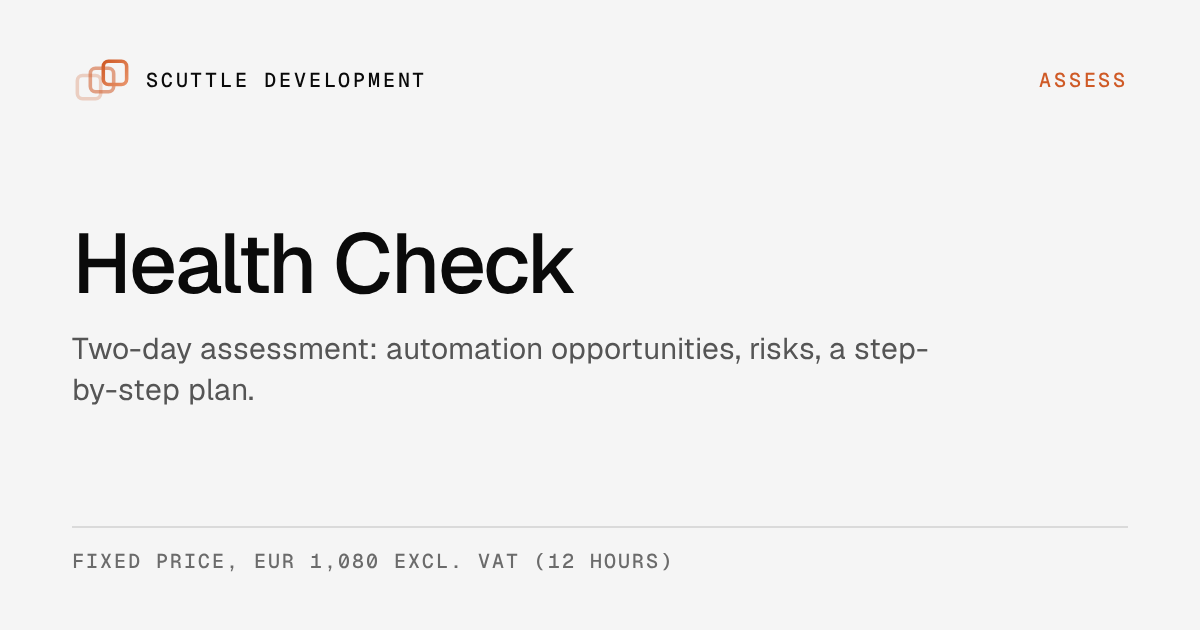
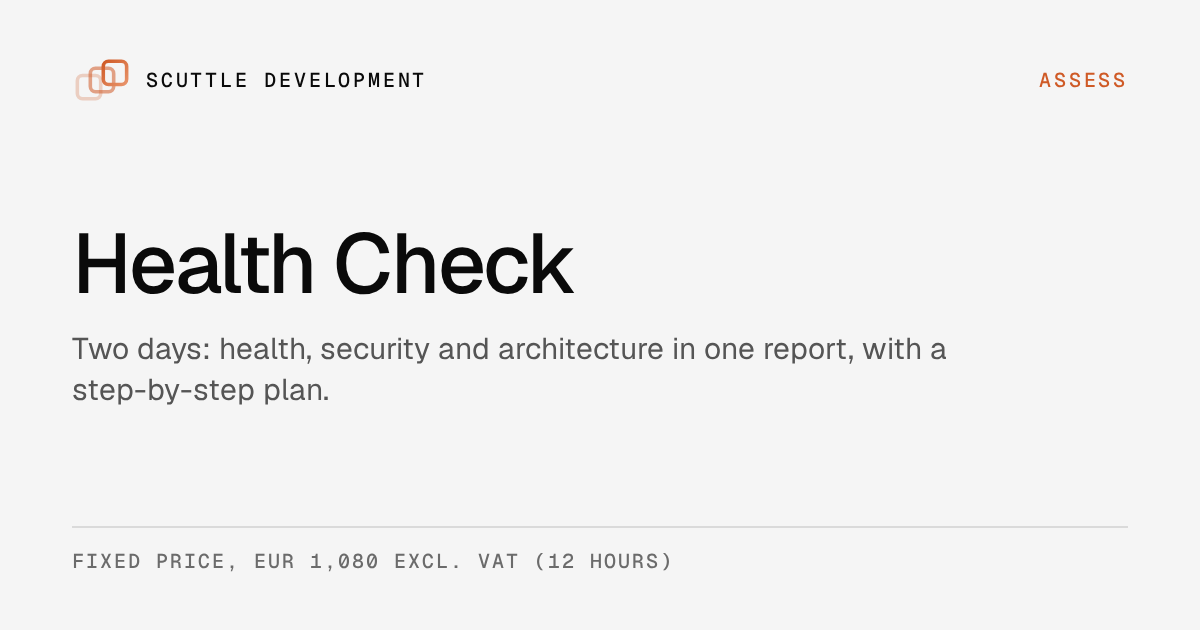
Services: five renames and a step per service for the home page loop
Stas (2026-10-31, proposal 14): the services are shown as the loop an engagement runs
through, Research, Plan, Build, Review, Deploy, with the ongoing work as the hub. This
first release renames what sounded alike or too narrow and adds the loop data; the
illustration itself comes in the next release. Renamed: AI Integration to AI Agents and
Skills, Integrations to System Integration, Android App to Mobile App (Android now, iOS on
request), Security Assessment to Security Test, Architecture Review to Architecture Plan.
Slugs and addresses do not change; the Health Check keeps its name and its one-liner now
says what it covers (health, security and architecture in one report). Every product
carries a step (Build entries also a sub group); STEPS, SUBS, EXTRA (nine entries without a
page yet, they open the contact page) and loop() feed the next release. Search titles,
related links, the demo panel texts and the six social cards with a changed name follow.
The menu keeps its three groups.

Changed region(s): [[0.0925, 0.5429, 0.8017, 0.573], [0.0617, 0.6032, 0.2775, 0.6333]]

diff --git a/public/site.js b/public/site.js
@@ -190,7 +190,7 @@
         ['45 seconds instead of an hour', 'Release notes that used to be written on Friday afternoon, done before the deploy finishes.', 'ai-integration', 'l', 'SKILL'],
         ['Your procedure, written down', 'A skill is the checklist the agent must follow: what to read, how to write, what never to include.', 'ai-integration', 'l', 'REPEAT'],
         ['A person still publishes', 'The agent drafts; the release button stays human.', 'ai-integration', 'l', 'HUMAN'],
-        ['Sold as', 'AI Integration: custom skills for the chores your team repeats', 'ai-integration', 'l', '→']
+        ['Sold as', 'AI Agents and Skills: custom skills for the chores your team repeats', 'ai-integration', 'l', '→']
       ]), { title: 'Automation run · release-notes skill (Claude Code)', done: 'done · 45 s' }),
       'mcp-gateway': Object.assign(run([
         ['10:42:12', 'assistant → "which orders of customer 4471 are late?"', ''],
@@ -203,7 +203,7 @@
         ['One MCP server in front of the API', 'The assistant gets named tools, not raw database access.', 'ai-integration', 'l', 'LIVE'],
         ['Read-only by default', 'Write tools exist only where a human approves the action.', 'ai-integration', 'l', 'OK'],
         ['Every call audited', 'Who asked what, which tool ran, what came back.', 'integrations', 'l', 'OK'],
-        ['Sold as', 'AI Integration, on top of Integrations when the API is not there yet', 'ai-integration', 'l', '→']
+        ['Sold as', 'AI Agents and Skills, on top of System Integration when the API is not there yet', 'ai-integration', 'l', '→']
       ]), { title: 'Live tool call · mcp-gateway (Model Context Protocol)', done: 'answered · 1.1 s' }),
       'lead-followup': Object.assign(run([
         ['08:30:00', 'crm → 9 leads without a reply after 5 days', ''],
@@ -217,7 +217,7 @@
         ['7 drafts ready at 08:31', 'Each one shown with the thread it answers; approve or edit, then send. About 35 minutes of writing saved a day.', 'ai-integration', 'l', 'AUTO'],
         ['2 for a person', 'They mention a meeting date; a human decides.', 'ai-integration', 'm', 'HUMAN'],
         ['Sending stays human', 'The agent drafts; a person taps send, by design.', 'ai-integration', 'l', 'OK'],
-        ['Sold as', 'AI Integration, connected to your CRM through Integrations', 'ai-integration', 'l', '→']
+        ['Sold as', 'AI Agents and Skills, connected to your CRM through System Integration', 'ai-integration', 'l', '→']
       ]), { title: 'Automation run · lead-followup', done: 'done · 7 drafts' }),
       'ticket-triage': Object.assign(run([
         ['07:00:00', 'helpdesk → 23 new tickets overnight', ''],
@@ -231,7 +231,7 @@
         ['14 answered before 07:02', 'From the product manual, with the source paragraph quoted; a person sees them first. About 48 minutes a day.', 'ai-integration', 'l', 'AUTO'],
         ['6 bugs prepared', 'Steps, logs and environment attached to each ticket.', 'ai-integration', 'l', 'AUTO'],
         ['1 P1 paged', 'Payment page down; found within 90 seconds of the ticket.', 'maintenance-retainer', 'h', 'P1'],
-        ['Sold as', 'AI Integration, with the Maintenance Retainer watching the P1s', 'ai-integration', 'l', '→']
+        ['Sold as', 'AI Agents and Skills, with the Maintenance Retainer watching the P1s', 'ai-integration', 'l', '→']
       ]), { title: 'Automation run · ticket-triage', done: 'done · 23 triaged' }),
 
       'health-check': { kind: 'report', title: 'Report · Health Check', done: '12 pages · 2 shown', pages: [
@@ -259,7 +259,7 @@
         cols: [['Situation', '<p>A software product with a mature REST API. Customers started asking whether they could use an AI assistant on their own data. The team did not want a chatbot bolted on, and did not want the model anywhere near the database.</p>'],
                ['What I built', '<ul><li>An MCP server (Model Context Protocol, the open standard assistants use to call tools) in front of the existing API</li><li>Named, read-only tools with the user\'s own permissions; no raw queries</li><li>Audit log of every call: who, which tool, what came back</li><li>Write actions only through tools that need a human approval step</li></ul>'],
                ['Result', '<p>Customers connect Claude or another assistant and ask questions in plain language; the product answers from its own API, within the rights that user already had. The API did not change. Client anonymized; the pattern is reusable for any product with an API.</p>']],
-        cta: [['AI Integration', '/products/ai-integration'], ['Integrations', '/products/integrations']] },
+        cta: [['AI Agents and Skills', '/products/ai-integration'], ['System Integration', '/products/integrations']] },
       'case-migration': { kind: 'story', title: 'Case · Migration while in daily use', done: 'anonymized', nums: [['60%', 'lower latency'], ['7.4 → 8.4', 'PHP, back in support'], ['3.4 → 5.9', 'framework, on the way'], ['in use', 'the whole migration']],
         cols: [['Situation', '<p>A hotel operations platform on an old framework and an unsupported PHP. Specialists for the framework were hard to find, and a rewrite was too risky for a system hotels use every day.</p>'],
                ['What I built', '<ul><li>A thin layer that lets old and new code run side by side (Strangler Fig)</li><li>Modules moved one at a time, each release small, each with a rollback</li><li>PHP 7.4 to 8.4 and the framework upgraded on the way, so the runtime stayed supported during the migration</li></ul>'],

diff --git a/src/Catalog.php b/src/Catalog.php
@@ -17,13 +17,13 @@ final class Catalog
 
     /** Search titles: the service and what it is, so the result says more than the name (council round 2, 2026-10-30). */
     public const SEO_TITLES = [
-        'ai-integration' => 'AI Integration: agents, MCP servers and RAG',
-        'integrations' => 'Integrations for bookings, payments, ERP and mail',
+        'ai-integration' => 'AI Agents and Skills: agents, MCP servers and RAG',
+        'integrations' => 'System Integration for bookings, payments, ERP and mail',
         'full-stack-build' => 'Full-stack Build: a web application end to end',
         'modernization' => 'Modernization: PHP, framework and hosting up to date',
-        'android-app' => 'Android App: Kotlin and Jetpack Compose',
-        'security-assessment' => 'Security Assessment: vulnerability scan or pentest',
-        'architecture-review' => 'Architecture Review: options and a recommendation',
+        'android-app' => 'Mobile App: Android in Kotlin and Jetpack Compose',
+        'security-assessment' => 'Security Test: vulnerability scan or pentest',
+        'architecture-review' => 'Architecture Plan: options and a recommendation',
         'hardening' => 'Hardening and Secure Pipeline for your servers',
         'maintenance-retainer' => 'Maintenance Retainer: patches and monitoring monthly',
         'compliance' => 'Compliance Alignment: NIS2, GDPR and DORA',
@@ -33,13 +33,13 @@ final class Catalog
 
     /** @var array<string, string> */
     public const SEO_TITLES_NL = [
-        'ai-integration' => 'AI Integration: agents, MCP-servers en RAG',
-        'integrations' => 'Integrations: systemen die betrouwbaar praten',
+        'ai-integration' => 'AI Agents and Skills: agents, MCP-servers en RAG',
+        'integrations' => 'System Integration: systemen die betrouwbaar praten',
         'full-stack-build' => 'Full-stack Build: een webapplicatie van begin tot eind',
         'modernization' => 'Modernization: PHP, framework en hosting bijgewerkt',
-        'android-app' => 'Android App: Kotlin en Jetpack Compose',
-        'security-assessment' => 'Security Assessment: kwetsbaarhedenscan of pentest',
-        'architecture-review' => 'Architecture Review: opties en een advies',
+        'android-app' => 'Mobile App: Android in Kotlin en Jetpack Compose',
+        'security-assessment' => 'Security Test: kwetsbaarhedenscan of pentest',
+        'architecture-review' => 'Architecture Plan: opties en een advies',
         'hardening' => 'Hardening and Secure Pipeline voor je servers',
         'maintenance-retainer' => 'Maintenance Retainer: patches en monitoring per maand',
         'compliance' => 'Compliance Alignment: NIS2, AVG en DORA',
@@ -69,6 +69,46 @@ final class Catalog
     ];
 
     /**
+     * The development loop on the home page (proposal 14, layout B, Stas 2026-10-31): the
+     * steps an engagement goes through, in order; 'ongoing' is the hub in the middle, not
+     * a step. Each: [label, label NL, line, line NL, verb, verb NL]. The menu keeps GROUPS.
+     *
+     * @var array<string, array{0:string,1:string,2:string,3:string,4:string,5:string}>
+     */
+    public const STEPS = [
+        'research' => ['Research', 'Onderzoeken', 'One look at the whole system before anything is decided.', 'Eén blik op het hele systeem voordat iets wordt besloten.', 'Measure, ask, understand', 'Meten, vragen, begrijpen'],
+        'plan' => ['Plan', 'Plannen', 'Decide what gets built, in which order, and what it costs.', 'Bepalen wat er gebouwd wordt, in welke volgorde en wat het kost.', 'Options, decisions, roadmap', 'Opties, besluiten, routekaart'],
+        'build' => ['Build', 'Bouwen', 'Build what is missing, modernize what runs, connect it, automate it.', 'Bouwen wat ontbreekt, moderniseren wat draait, koppelen, automatiseren.', 'Web, mobile, legacy, integration, AI', 'Web, mobiel, legacy, koppelingen, AI'],
+        'review' => ['Review', 'Toetsen', 'Test what was built before anyone depends on it.', 'Testen wat gebouwd is voordat iemand erop vertrouwt.', 'Pentest, code, tests', 'Pentest, code, tests'],
+        'deploy' => ['Deploy', 'Uitrollen', 'Ship it locked down, backed up and written down. Then look again.', 'Live brengen: dichtgezet, geback-upt en opgeschreven. Dan opnieuw kijken.', 'Pipeline, hardening, handover', 'Pipeline, hardening, overdracht'],
+        'ongoing' => ['Ongoing', 'Doorlopend', 'Not a step: it runs the whole time the system runs.', 'Geen stap: het loopt zolang het systeem draait.', 'Patches, monitoring, evidence', 'Patches, monitoring, bewijs'],
+    ];
+
+    /** The two groups inside Build: key => [label, label NL]. @var array<string, array{0:string,1:string}> */
+    public const SUBS = [
+        'general' => ['General', 'Algemeen'],
+        'ai' => ['AI and automation', 'AI en automatisering'],
+    ];
+
+    /**
+     * Loop entries without a service page yet (they open the contact page): key => [step, sub or null, name, short, short NL].
+     * Names stay English, like every service name on the site.
+     *
+     * @var array<string, array{0:string,1:?string,2:string,3:string,4:string}>
+     */
+    public const EXTRA = [
+        'discovery-session' => ['research', null, 'Discovery Session', 'Half a day with your team: what repeats, what hurts, what to automate first.', 'Een halve dag met je team: wat herhaalt zich, waar wringt het, wat automatiseren we eerst.'],
+        'risk-scan' => ['research', null, 'Dependency and Risk Scan', 'Automated check of versions, end-of-life dates and known vulnerabilities. A one-page result within a day.', 'Geautomatiseerde check van versies, end-of-lifedatums en bekende kwetsbaarheden. Eén pagina resultaat binnen een dag.'],
+        'proof-of-concept' => ['plan', null, 'Proof of Concept', 'The risky part built small first, so the plan rests on something that runs.', 'Het riskante deel eerst klein gebouwd, zodat het plan rust op iets dat draait.'],
+        'specification' => ['plan', null, 'Specification and Estimate', 'A written spec with acceptance criteria, and a fixed quote on it. Spec first, then code.', 'Een geschreven specificatie met acceptatiecriteria, en een vaste offerte daarop. Eerst de spec, dan de code.'],
+        'workflow-automation' => ['build', 'ai', 'Workflow Automation', 'Scheduled jobs, pipelines and scripts that replace the manual steps between systems.', 'Geplande taken, pipelines en scripts die de handmatige stappen tussen systemen vervangen.'],
+        'code-review' => ['review', null, 'Code and Test Review', 'Code, tests and CI read by a second pair of eyes before go-live, with a written list.', 'Code, tests en CI gelezen door een tweede paar ogen voor de livegang, met een geschreven lijst.'],
+        'performance-test' => ['review', null, 'Performance Test', 'Load test and slow-query hunt with real numbers before and after; the fixes included.', 'Belastingtest en jacht op trage query\'s met echte cijfers voor en na; de fixes inbegrepen.'],
+        'hosting-cutover' => ['deploy', null, 'Hosting and Cutover', 'Servers, containers and backups set up; the switch-over planned with a rollback, done on a quiet day.', 'Servers, containers en back-ups ingericht; de overgang gepland met een rollback, op een rustige dag.'],
+        'monitoring' => ['ongoing', null, 'Monitoring and Alerts', 'Uptime, errors and security advisories watched, so you hear it before your users do.', 'Uptime, fouten en beveiligingsmeldingen in de gaten gehouden, zodat jij het eerder hoort dan je gebruikers.'],
+    ];
+
+    /**
      * @return array<string, Product>
      */
     public static function all(): array
@@ -77,7 +117,9 @@ final class Catalog
             'ai-integration' => [
                 'slug' => 'ai-integration',
                 'group' => 'build',
-                'name' => 'AI Integration',
+                'step' => 'build',
+                'sub' => 'ai',
+                'name' => 'AI Agents and Skills',
                 'short' => 'Agents, custom skills, MCP servers, RAG over your data. One use case to production.',
                 'lead' => 'One workflow where AI saves measurable time, taken to production: a Claude agent with custom skills, an MCP server that gives it named tools on your systems, retrieval (RAG) over your own documents, and browser automation where there is no API. The value is in connecting the model to your knowledge and your tools, safely. I run my own business on this pattern.',
                 'price' => 'Quoted per use case at '.self::HOURLY,
@@ -126,7 +168,9 @@ final class Catalog
             'integrations' => [
                 'slug' => 'integrations',
                 'group' => 'build',
-                'name' => 'Integrations',
+                'step' => 'build',
+                'sub' => 'ai',
+                'name' => 'System Integration',
                 'short' => 'Systems that talk to each other reliably: bookings, payments, ERP, mail.',
                 'lead' => 'Connecting the systems you already run: booking systems, payment providers, ERP, mail platforms, scanners and partner APIs. Built to survive retries, outages and the other side changing its mind.',
                 'price' => 'Quoted per integration at '.self::HOURLY,
@@ -175,6 +219,8 @@ final class Catalog
             'full-stack-build' => [
                 'slug' => 'full-stack-build',
                 'group' => 'build',
+                'step' => 'build',
+                'sub' => 'general',
                 'name' => 'Full-stack Build',
                 'short' => 'Design, architecture, backend, front end, API, hosting: a new application built end to end.',
                 'lead' => 'A new web application built end to end by one person: the design of the screens, the architecture, the backend, the front end, the API, the hosting and the release process. For an idea, a spreadsheet process or a product that has outgrown its first version.',
@@ -224,6 +270,8 @@ final class Catalog
             'modernization' => [
                 'slug' => 'modernization',
                 'group' => 'build',
+                'step' => 'build',
+                'sub' => 'general',
                 'name' => 'Modernization',
                 'short' => 'PHP, framework, database, web server and hosting brought up to date, while the system keeps running.',
                 'lead' => 'Everything under your application brought up to date and made future-proof: the PHP version, the framework, the database, the web server, the way it is hosted and the way it is released. Done in steps, with the system in use the whole time, so nothing stops and every step can be undone.',
@@ -273,8 +321,10 @@ final class Catalog
             'android-app' => [
                 'slug' => 'android-app',
                 'group' => 'build',
-                'name' => 'Android App',
-                'short' => 'Kotlin and Jetpack Compose, on your API or a new Laravel backend.',
+                'step' => 'build',
+                'sub' => 'general',
+                'name' => 'Mobile App',
+                'short' => 'Android now, iOS on request: Kotlin and Jetpack Compose on your API or a new Laravel backend.',
                 'lead' => 'A native Android app in Kotlin with Jetpack Compose, on top of the API you have or a new Laravel backend built alongside it. For field staff, scanners, internal tools and products that need to work with a bad connection.',
                 'price' => 'Quoted per milestone at '.self::HOURLY,
                 'price_note' => 'Internal distribution or Play Store, your choice; store accounts stay in your name.',
@@ -297,7 +347,7 @@ final class Catalog
                 'cta' => ['Who would use the app, and where?', 'Tell me the job it must do on the floor or in the field. I reply within one working day with the first screen I would build, free.'],
                 'nl' => [
                     'lead' => 'Een native Android-app in Kotlin met Jetpack Compose, bovenop de API die je hebt of een nieuwe Laravel-backend die ernaast gebouwd wordt. Voor buitendienst, scanners, interne tools en producten die met een slechte verbinding moeten werken.',
-                    'short' => 'Kotlin en Jetpack Compose, op je API of een nieuwe Laravel-backend.',
+                    'short' => 'Android nu, iOS op aanvraag: Kotlin en Jetpack Compose op je API of een nieuwe Laravel-backend.',
                     'price' => 'Op offerte per mijlpaal, EUR 90 per uur excl. btw',
                     'price_note' => 'Interne distributie of Play Store, jouw keuze; de storeaccounts blijven op jouw naam.',
                     'features' => [
@@ -323,8 +373,9 @@ final class Catalog
                 'slug' => 'legacy-health-check',
                 'route' => 'scuttle.health-check',
                 'group' => 'assess',
+                'step' => 'research',
                 'name' => 'Health Check',
-                'short' => 'Two-day assessment: automation opportunities, risks, a step-by-step plan.',
+                'short' => 'Two days: health, security and architecture in one report, with a step-by-step plan.',
                 'lead' => 'A two-day assessment of your application and the way it is run. You get a written report on where automation saves hours, what is risky, which parts are out of support (the legacy check), and a step-by-step plan that does not stop the business.',
                 'price' => 'Fixed price, EUR 1,080 excl. VAT (12 hours)',
                 'price_note' => 'Two days of review, 12 hours × EUR 90. A free intro call comes first.',
@@ -348,7 +399,7 @@ final class Catalog
                 'cta' => ['Not sure where to start? Start here.', 'Twelve hours, read-only, a plan you can hold me to. Tell me what you run and I check that the Health Check fits before anything is booked.'],
                 'nl' => [
                     'lead' => 'Een beoordeling in twee dagen van je applicatie en de manier waarop die draait. Je krijgt een schriftelijk rapport over waar automatisering uren bespaart, wat risicovol is, welke onderdelen buiten support zijn (de legacy-check) en een plan in stappen dat het bedrijf niet stilzet.',
-                    'short' => 'Beoordeling in twee dagen: kansen voor automatisering, risico\'s, een plan in stappen.',
+                    'short' => 'Twee dagen: gezondheid, beveiliging en architectuur in één rapport, met een plan in stappen.',
                     'price' => 'Vaste prijs, EUR 1.080 excl. btw (12 uur)',
                     'price_note' => 'Twee dagen review, 12 uur × EUR 90. Een gratis introgesprek gaat vooraf.',
                     'features' => [
@@ -374,7 +425,8 @@ final class Catalog
             'security-assessment' => [
                 'slug' => 'security-assessment',
                 'group' => 'assess',
-                'name' => 'Security Assessment',
+                'step' => 'review',
+                'name' => 'Security Test',
                 'short' => 'Vulnerability assessment or application pentest, with a retest.',
                 'lead' => 'A vulnerability assessment or application penetration test of a web application, API or server environment you own. Findings ranked by severity, each with fix advice, and a retest when the fixes are in.',
                 'price' => 'Quick scan EUR 720 excl. VAT (8 hours); full assessment quoted per phase at '.self::HOURLY,
@@ -423,7 +475,8 @@ final class Catalog
             'architecture-review' => [
                 'slug' => 'architecture-review',
                 'group' => 'assess',
-                'name' => 'Architecture Review',
+                'step' => 'plan',
+                'name' => 'Architecture Plan',
                 'short' => 'Options compared, a written recommendation, decision records.',
                 'lead' => 'For a decision on stack, cloud, integration or build versus buy. I compare the options on cost, risk and fit with your team, and write down a recommendation you can hold me to.',
                 'price' => 'Fixed price, EUR 1,440 excl. VAT (16 hours)',
@@ -472,6 +525,7 @@ final class Catalog
             'hardening' => [
                 'slug' => 'hardening',
                 'group' => 'run',
+                'step' => 'deploy',
                 'name' => 'Hardening and Secure Pipeline',
                 'short' => 'Attack surface closed, security gates in CI, backups that restore.',
                 'lead' => 'The server and the delivery pipeline made safe: ports closed, TLS current, secrets out of the code, dependency and secret scans on every change, and backups that have actually been restored. A written quality bar your team can keep.',
@@ -491,7 +545,7 @@ final class Catalog
                     'Fixes in agreed order, each verified.',
                     'Written quality bar and the runbook handed over.',
                 ],
-                'not' => 'This is not a penetration test of the application itself; that is the Security Assessment. No uptime guarantees from one person.',
+                'not' => 'This is not a penetration test of the application itself; that is the Security Test. No uptime guarantees from one person.',
                 'illus' => 'lock',
                 'cta' => ['When was the last restore test?', 'If the answer is "never" or "not sure", that is the first thing I would do. Tell me where it runs and I reply within one working day, free.'],
                 'nl' => [
@@ -521,6 +575,7 @@ final class Catalog
             'maintenance-retainer' => [
                 'slug' => 'maintenance-retainer',
                 'group' => 'run',
+                'step' => 'ongoing',
                 'name' => 'Maintenance Retainer',
                 'short' => 'A monthly hours block: patches, monitoring, small changes, a report.',
                 'lead' => 'For a system you want kept running by the person who knows it. A monthly block of hours for security patches, monitoring, backups, small changes and the questions in between, with a short report every month.',
@@ -570,6 +625,7 @@ final class Catalog
             'compliance' => [
                 'slug' => 'compliance',
                 'group' => 'run',
+                'step' => 'ongoing',
                 'name' => 'Compliance Alignment',
                 'short' => 'NIS2, GDPR and DORA: gap analysis, remediation, evidence.',
                 'lead' => 'For a company that has to show its technical controls to a regulator, an auditor or a bigger customer. A gap analysis against NIS2, GDPR or DORA, a remediation plan, and the controls implemented with evidence you can hand over.',
@@ -619,6 +675,7 @@ final class Catalog
             'handover-pack' => [
                 'slug' => 'handover-pack',
                 'group' => 'run',
+                'step' => 'deploy',
                 'name' => 'Handover Pack',
                 'short' => 'Runbook, architecture, decisions, accounts, risks. Yours to keep.',
                 'lead' => 'Everything the next developer needs to run the system without me: how it works, how to deploy and roll back, how to restore a backup, which accounts exist and who owns them, the decisions made and the known risks. Included in every project, and bookable on its own for a system you inherited.',
@@ -690,6 +747,34 @@ final class Catalog
         }
         foreach (self::all() as $p) {
             $out[$p['group']][] = $p;
+        }
+
+        return $out;
+    }
+
+    /**
+     * The home page loop: step key => list of entries, services first (with their real page), then
+     * the EXTRA entries (contact page). Every entry: slug, name, short, short NL, url, sub (Build only), extra.
+     *
+     * @return array<string, list<array{slug:string, name:string, short:string, short_nl:string, url:string, sub:?string, extra:bool}>>
+     */
+    public static function loop(): array
+    {
+        $out = [];
+        foreach (array_keys(self::STEPS) as $key) {
+            $out[$key] = [];
+        }
+        foreach (self::all() as $p) {
+            $out[$p['step']][] = ['slug' => $p['slug'], 'name' => $p['name'], 'short' => $p['short'], 'short_nl' => $p['nl']['short'], 'url' => self::url($p), 'sub' => $p['sub'] ?? null, 'extra' => false];
+        }
+        foreach (self::EXTRA as $slug => $e) {
+            $out[$e[0]][] = ['slug' => $slug, 'name' => $e[2], 'short' => $e[3], 'short_nl' => $e[4], 'url' => route('scuttle.contact.page'), 'sub' => $e[1], 'extra' => true];
+        }
+        foreach ($out as $key => $items) {
+            if ($key === 'build') {
+                usort($items, fn ($a, $b) => strcmp($a['sub'], $b['sub']) ?: 0);
+                $out[$key] = array_values(array_merge(array_filter($items, fn ($i) => $i['sub'] === 'general'), array_filter($items, fn ($i) => $i['sub'] === 'ai')));
+            }
         }
 
         return $out;

diff --git a/src/Links.php b/src/Links.php
@@ -47,7 +47,7 @@ class Links
                 ['path' => '/news/php-security-release-october-2026', 'en' => 'Why PHP versions matter: the security release of 21 October', 'nl' => 'Waarom PHP-versies ertoe doen: de beveiligingsrelease van 21 oktober'],
             ],
             'hardening' => [
-                ['path' => '/services/security-assessment', 'en' => 'Need the application itself tested? That is the Security Assessment', 'nl' => 'Moet de applicatie zelf getest worden? Dat is de Security Assessment'],
+                ['path' => '/services/security-assessment', 'en' => 'Need the application itself tested? That is the Security Test', 'nl' => 'Moet de applicatie zelf getest worden? Dat is de Security Test'],
                 ['path' => '/nis2', 'en' => 'NIS2 and the Cyber Resilience Act: who is in scope and what they must do', 'nl' => 'NIS2 en de Cyber Resilience Act: wie eronder valt en wat ze moeten doen'],
                 ['path' => '/health-check', 'en' => 'Want a first overview of risks across the whole system? The Health Check', 'nl' => 'Een eerste overzicht van de risico\'s in het hele systeem? De Health Check'],
             ],
@@ -58,7 +58,7 @@ class Links
             ],
             'ai-integration' => [
                 ['path' => '/news/an-mcp-server-in-front-of-your-api', 'en' => 'Why an MCP server in front of the API is the safe way to let AI use your data', 'nl' => 'Waarom een MCP-server voor de API de veilige manier is om AI je data te laten gebruiken'],
-                ['path' => '/services/architecture-review', 'en' => 'Before the build: an Architecture Review of the system the agent will touch', 'nl' => 'Vóór de bouw: een Architecture Review van het systeem waar de agent bij komt'],
+                ['path' => '/services/architecture-review', 'en' => 'Before the build: an Architecture Plan of the system the agent will touch', 'nl' => 'Vóór de bouw: een Architecture Plan van het systeem waar de agent bij komt'],
             ],
         ];
     }

diff --git a/resources/views/partials/ai-extra.blade.php b/resources/views/partials/ai-extra.blade.php
@@ -1,4 +1,4 @@
-{{-- Extra blocks on the AI Integration page: the workflow, which model for what, the words, the models in use, a thin timeline. --}}
+{{-- Extra blocks on the AI Agents and Skills page: the workflow, which model for what, the words, the models in use, a thin timeline. --}}
 <section class="s tight"><div class="wrap">
   <div class="plate rv flow">
     <div class="bh"><span class="lbl dot" data-i="ax_0">How an automation is built</span><h2 data-i="ax_5">The workflow, step by step</h2><p data-i="ax_7">Every automation I build has the same shape, whether it runs as a Claude agent, as n8n flows or as a queue job in your application. The value sits in the middle: your knowledge and your tools, connected safely.</p></div>

diff --git a/CLAUDE.md b/CLAUDE.md
@@ -23,7 +23,7 @@ Read `docs/marketing-rules.md` before writing or changing any page text, product
 - Visit counting (2026-10-31): with `SCUTTLE_ANALYTICS_KEY` set (the site key from sd-analytics, which the host's `config/scuttle-dev.php` sets for production), the layout adds the sd-analytics snippet (`/_sda/s.js`, first party, no cookie, no browser storage), a no-JS pixel, a `Book a call click` event and, on the contact page after a send, a `Contact form sent` event. The privacy statement (EN and NL, `pv_stats`) describes the counting only when the key is set and keeps the old promise otherwise; both are in one change by design. Google Analytics (`SCUTTLE_GA_ID`, empty on the server) and its banner stay dormant.
 - `privacy.blade.php` is one full statement in both languages (English default, Dutch through the switch, keys `pv_*`), processors DigitalOcean, Google (mail, backups) and Anthropic (Claude for the lead tooling: summaries of public company information and first email drafts, reviewed before sending); Gemini is no longer named.
 - `src/Cases.php` — the case studies (one anonymized client case, three own products), rendered by `case-study.blade.php` at `/case-studies/{slug}` and in the home carousel. `src/Http/Controllers/ContactController.php` + `src/Mail/ContactMessage.php` — the contact form on `/contact` (POST `/contact`, throttle 6 a minute, honeypot plus a signed 3-second minimum, Cloudflare Turnstile when `SCUTTLE_TURNSTILE_SITE_KEY` and `SCUTTLE_TURNSTILE_SECRET` are set in the host's .env, mail to `SCUTTLE_CONTACT_TO`). `/scuttle.vcf` serves the vCard as text/vcard; `public/qr/scuttle-vcard.svg` is a QR code that carries the vCard itself (rebuild both with the script in the commit history of 2026-10-24 or by hand: vCard 3.0, CRLF, folded at 75 bytes, base64 photo).
-- `src/Catalog.php` — the 12 products in three groups (Assess, Build, Run): names, leads, prices, features, steps. One source for the products mega menu, the home cards and tiles, the pricing page, the product pages and the footer. Prices: Health Check EUR 1,080 (12 h), Architecture Review EUR 1,440 (16 h), security quick scan EUR 720 (8 h), Maintenance Retainer from EUR 720 a month (8 h), everything else quoted per step at EUR 90 per hour excl. VAT; the pricing page shows two blocks of four. The home page shows the twelve once, as the illustrated tiles under "What I build" (the three list cards that repeated them were removed on 2026-10-30, Stas: "list items should not be on the homepage"); their `.c.g` CSS went with them. Plan cards (`pricing.blade.php`, `.plan`): label, title, amount with a unit line under it ("per hour", "fixed, 12 hours"), text, rule, bullets, button; the bullets row takes the spare height so amounts line up across a row and every button is full width at the bottom; "excl. VAT" is said once per block in its header, not per card; one "Recommended" badge per block (Projects in steps, Health Check), the test counts two. Every product carries its own closing call to action (`cta`). Phone rules for the hero (ported from splotnikov-dev on 2026-10-30, keep both sites the same): the `.cmd` line under the buttons holds its parts in `<span>`s inside the `<b>` (EN in the view, NL in the string map, HTML allowed there); a CSS `::before` draws the " · " between them, and under 600 px every part gets its own line; the terminal window (`.shot`) under 980 px has `grid-template-rows:auto minmax(0,1fr)` so the chip row keeps its 35 px before the log has typed anything (without it the two auto rows share the 640 px and the chips stretch to 240 px); the log (`.log`) under 600 px is 12 px with wrapping allowed inside a line. The hero title keeps a space before its `<br>` (EN in the view, NL in the string map) because under 600 px the break is hidden and the browser balances the title into three lines; without the space the two halves glue together. The Health Check keeps its own address (`route` key) and renders through the same `product` view. Adding a product: add it here and to `public/sitemap.xml`; the tests check both.
+- `src/Catalog.php` — the 12 products in three groups (Assess, Build, Run): names, leads, prices, features, steps. One source for the products mega menu, the home cards and tiles, the pricing page, the product pages and the footer. Names since v0.7.30 (2026-10-31, proposal 14): AI Agents and Skills (was AI Integration), System Integration (was Integrations), Mobile App (was Android App; Android now, iOS on request), Security Test (was Security Assessment), Architecture Plan (was Architecture Review); slugs and addresses unchanged. Every product also carries a `step` (research, plan, build, review, deploy, ongoing; Build entries a `sub`: general or ai) for the home page loop, see `STEPS`, `SUBS`, `EXTRA` and `loop()`; the menu keeps the three groups. Rebuild the social cards after a rename (names are on them). Prices: Health Check EUR 1,080 (12 h), Architecture Plan EUR 1,440 (16 h), security quick scan EUR 720 (8 h), Maintenance Retainer from EUR 720 a month (8 h), everything else quoted per step at EUR 90 per hour excl. VAT; the pricing page shows two blocks of four. The home page shows the twelve once, as the illustrated tiles under "What I build" (the three list cards that repeated them were removed on 2026-10-30, Stas: "list items should not be on the homepage"); their `.c.g` CSS went with them. Plan cards (`pricing.blade.php`, `.plan`): label, title, amount with a unit line under it ("per hour", "fixed, 12 hours"), text, rule, bullets, button; the bullets row takes the spare height so amounts line up across a row and every button is full width at the bottom; "excl. VAT" is said once per block in its header, not per card; one "Recommended" badge per block (Projects in steps, Health Check), the test counts two. Every product carries its own closing call to action (`cta`). Phone rules for the hero (ported from splotnikov-dev on 2026-10-30, keep both sites the same): the `.cmd` line under the buttons holds its parts in `<span>`s inside the `<b>` (EN in the view, NL in the string map, HTML allowed there); a CSS `::before` draws the " · " between them, and under 600 px every part gets its own line; the terminal window (`.shot`) under 980 px has `grid-template-rows:auto minmax(0,1fr)` so the chip row keeps its 35 px before the log has typed anything (without it the two auto rows share the 640 px and the chips stretch to 240 px); the log (`.log`) under 600 px is 12 px with wrapping allowed inside a line. The hero title keeps a space before its `<br>` (EN in the view, NL in the string map) because under 600 px the break is hidden and the browser balances the title into three lines; without the space the two halves glue together. The Health Check keeps its own address (`route` key) and renders through the same `product` view. Adding a product: add it here and to `public/sitemap.xml`; the tests check both.
   Also `/mail/signature-logo.png`, the small logo in the CRM mail signature (white circle, 96 px), routed so it needs no asset publish on the server.
 - `src/Http/Controllers/SiteController.php`: renders `scuttle::site` and serves `robots.txt` / `sitemap.xml` straight from the package's `public/`.
 - `resources/views/layout.blade.php` — shared shell (nav with the Products mega menu, EN/NL switch on every page, theme button, dark footer block, Dutch strings for the shell); every page extends it. `resources/views/site.blade.php` — the home page (light first, grey plates, Geist, logo 37 "layered squares", decrypt headline, belts, 12 tiles with the line illustrations from `partials/illus.blade.php`); its Dutch strings are pushed into the `nl` stack. `product.blade.php` renders every catalog product, `pricing.blade.php` the pricing page. `case-study` and `privacy` use the `.page` article styles. Every page is switchable to Dutch, see below.

diff --git a/docs/marketing-rules.md b/docs/marketing-rules.md
@@ -28,3 +28,4 @@ Menu: Services (hover menu, three groups, plus an "All services" link to `/servi
 ## Structure of the site (2026-10-24, superseded in part by the round above)
 Menu: Services (hover menu, three groups), Pricing, Work, Case studies, Projects, News, Company, Contact, plus the Book a call button. Careers sits inside Company, never in the menu ("too many clicks for no reason"). Sectors is a home block, not a menu item. The word is services, not products: "we don't sell products, we sell services".
 Home: hero, interactive demo panel, three product groups, belts, 12 tiles, case study carousel, sectors, closing call to action that links to /contact. Products from `src/Catalog.php`, cases from `src/Cases.php`, pricing with two blocks of four, contact as its own page with the form, the vCard, the QR code, the address and the Chamber of Commerce link.
+- **Service names (2026-10-31, proposal 14).** AI Agents and Skills, System Integration, Mobile App, Security Test, Architecture Plan; the Health Check keeps its name (it is the one main assessment: health, security and architecture in one report). Two names that sound alike (Integrations next to AI Integration) never again.

diff --git a/docs/ESTIMATES.md b/docs/ESTIMATES.md
@@ -8,3 +8,4 @@ Every time estimate given to Stas for work on this site, with the real wall-cloc
 | Hero on the phone: command line one part per line, chip row no longer stretches before the log types, log 12 px (v0.7.9, same as splotnikov-dev v0.3.14 and v0.3.15) | none given, built on "fix it the same way there too" | 2026-10-30 12:37 | 2026-10-30 12:47 | 10 min |
 | Home title on the phone: forced break hidden under 600 px, browser balances three lines (v0.7.10, proposal 8 option 1) | 10 min | 2026-10-30 15:27 | 2026-10-30 15:36 | 9 min |
 | Home: the three list cards removed, services listed once (v0.7.11, proposal 9 option 2) | 15 min | 2026-10-30 15:50 | 2026-10-30 15:57 | 7 min |
+| Services regrouped as a loop, release 1: five renames, a step per service, loop data and constants, social cards rebuilt (v0.7.30, proposal 14 layout B) | 2 h | 2026-10-31 01:40 | | |
